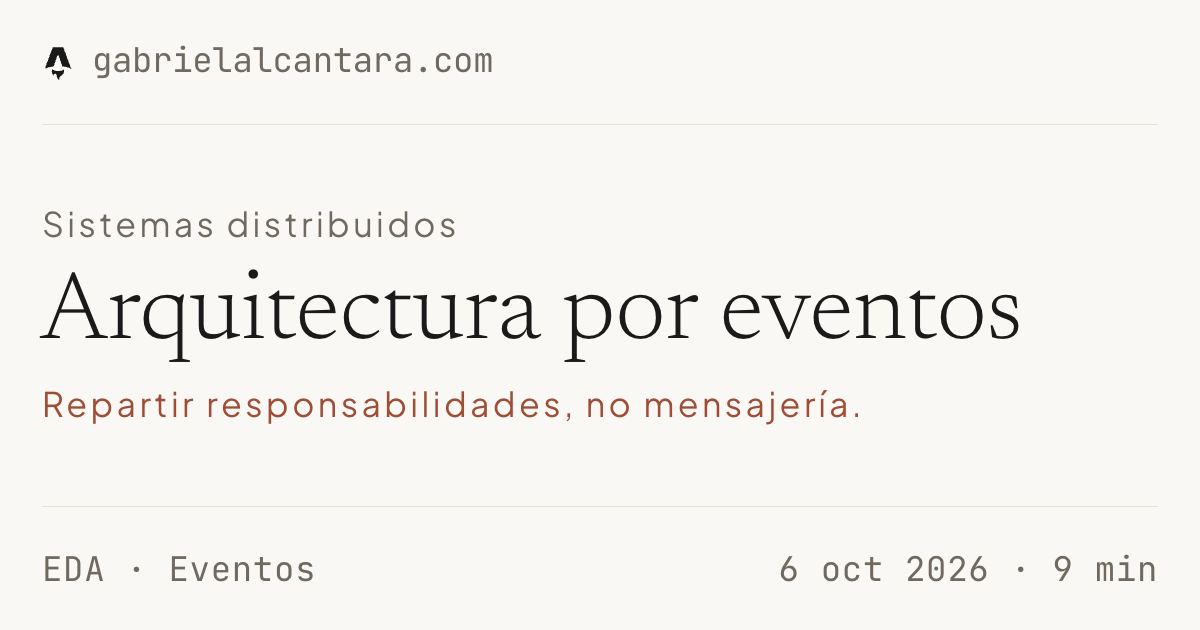
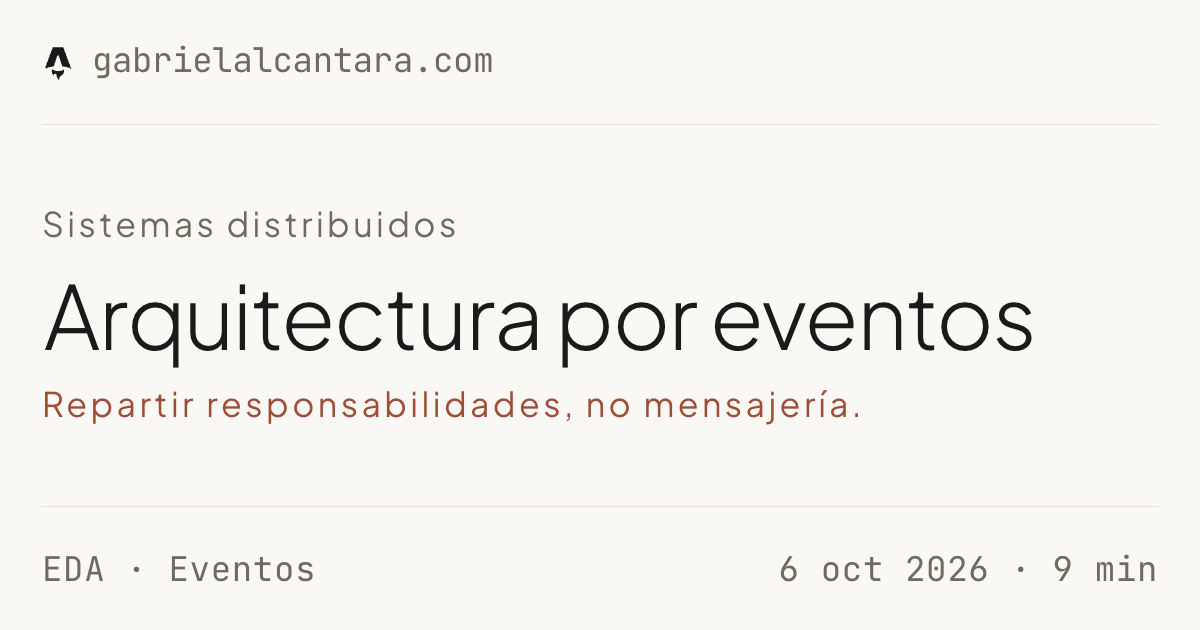
💄 style(og): set the lead in Plus Jakarta Sans at 88
The card now uses two faces: the lead and the labels in Plus Jakarta Sans, the
address and the foot in JetBrains Mono. The display row stays 96 so the rhythm
is untouched, and the lead's side bearing — five to eight pixels wide on this
face — is measured per headline, so its ink lands on --ink-line (45px) with the
labels; the exporter allows the box to hang up to 6px for it.

Changed region(s): [[0.0308, 0.4222, 0.8633, 0.573]]

diff --git a/docs/og-image/card.html b/docs/og-image/card.html
@@ -46,7 +46,13 @@
 	 * follow line-height 1, which moves the margin from 104 to 100.
 	 */
 	--slot-label: 34px;
-	--slot-title: 96px;
+	/* The lead sets at 88 in a 96 row: the row is the line's height, so the
+	   three-line block keeps its 96 and the type sheds only the empty shoulder. */
+	--slot-title: 88px;
+
+	/* Where the labels' ink lands on the shared column. The lead's side bearing
+	   is several pixels wide at 88px, so the script hangs the row to this line. */
+	--ink-line: 45px;
 
 	/* The masthead row is 40 so the mark fits inside it, not over the rule. The
 	   foot row matches it so the two hairlines mirror about the canvas centre. */
@@ -208,19 +214,20 @@ html, body { background: var(--paper); }
 	top: var(--y-title);
 	height: var(--h-title);
 	line-height: var(--h-title);
-	font-family: "CardSerif", Georgia, "Times New Roman", serif;
+	font-family: "CardSans", ui-sans-serif, system-ui, sans-serif;
 	font-size: var(--slot-title);
 	font-weight: 300;
-	letter-spacing: 0;
+	letter-spacing: -.02em;
 	color: var(--ink);
 }
 
 /*
- * The lead hangs two pixels: measured, its round G lands 1px right of the stems
- * of the label rows, and a curve needs that much to look flush. The exporter
- * allows the hang on this slot only; the script clears it for straight initials.
+ * The lead's ink, not its box, is what lines up with the labels: at 88px the
+ * sans' side bearing pushes the first letter five or six pixels right, and it
+ * differs by letter. The script measures that bearing once the face is loaded
+ * and hangs the row by it; the exporter caps the overhang.
  */
-.lead span { transform: translate(var(--lead-hang, -2px), 0); }
+.lead span { transform: translate(var(--lead-hang, 0px), 0); }
 
 /* The line that explains the title: sans at label size, tracked, in the accent. */
 .sub {
@@ -302,6 +309,27 @@ html, body { background: var(--paper); }
 	var footRight = document.getElementById('footRight');
 	var domain = document.getElementById('domain');
 
+	var inkContext = document.createElement('canvas').getContext('2d');
+
+	// Where the first glyph's ink starts, in card coordinates: the box is not
+	// the ink, and on a display line the bearing is several pixels wide.
+	function inkLeft(element) {
+		var style = getComputedStyle(element);
+		inkContext.font = style.fontWeight + ' ' + style.fontSize + ' ' + style.fontFamily;
+		var metrics = inkContext.measureText(element.textContent.trim());
+		return element.getBoundingClientRect().left - metrics.actualBoundingBoxLeft;
+	}
+
+	// The labels' ink lands on one line; the lead hangs until its own ink does
+	// too, so the three-line block reads as a single column of type.
+	function alignLead() {
+		if (!lead.textContent.trim()) return;
+		var line = Number.parseFloat(getComputedStyle(card).getPropertyValue('--ink-line'));
+		if (!isFinite(line)) line = 45;
+		var hang = Math.round((line - inkLeft(lead)) * 2) / 2;
+		lead.style.setProperty('--lead-hang', hang + 'px');
+	}
+
 	function setText(element, value) {
 		element.textContent = value == null ? '' : String(value);
 		return element.textContent.trim();
@@ -319,10 +347,9 @@ html, body { background: var(--paper); }
 		if (copy.title != null) setText(lead, copy.title);
 		if (copy.sub != null) setText(sub, copy.sub);
 
-		// Only round and pointed capitals hang; a straight stem (N, P, L, B) sits
-		// on the column line, so every card keeps its own optical edge.
-		var initial = lead.textContent.trim().charAt(0).toUpperCase();
-		lead.style.setProperty('--lead-hang', 'ACGOQSVWY'.indexOf(initial) === -1 ? '0px' : '-2px');
+		// The lead's ink has to land on the labels' ink, so the hang is measured
+		// once the copy and the face are in place, not guessed from the initial.
+		lead.style.setProperty('--lead-hang', '0px');
 		if (copy.footLeft != null) setText(footLeft, copy.footLeft);
 		if (copy.footRight != null) footRight.hidden = !setText(footRight, copy.footRight);
 
@@ -337,7 +364,10 @@ html, body { background: var(--paper); }
 		// real faces, so the promise waits for the webfonts before the gate reads
 		// the layout.
 		var fonts = document.fonts && document.fonts.ready ? document.fonts.ready : Promise.resolve();
-		return fonts.then(function () { return { kind: card.dataset.kind }; });
+		return fonts.then(function () {
+			alignLead();
+			return { kind: card.dataset.kind };
+		});
 	}
 
 	// export.mjs calls this after the page has loaded (no location.search there).

diff --git a/docs/og-image/contact-sheet.html b/docs/og-image/contact-sheet.html
@@ -42,42 +42,42 @@
       <img src="../../public/og/nakire-tps.png" width="504" height="265" alt="">
       <figcaption>
         <b>Nakire TPS</b>
-        <span>caso · /projects/nakire-tps/ · 47 KB</span>
+        <span>caso · /projects/nakire-tps/ · 45 KB</span>
       </figcaption>
     </figure>
 <figure>
       <img src="../../public/og/bodega-digital.png" width="504" height="265" alt="">
       <figcaption>
         <b>Bodega Digital</b>
-        <span>caso · /projects/bodega-digital/ · 54 KB</span>
+        <span>caso · /projects/bodega-digital/ · 55 KB</span>
       </figcaption>
     </figure>
 <figure>
       <img src="../../public/og/pachanga-community.png" width="504" height="265" alt="">
       <figcaption>
         <b>Pachanga Community</b>
-        <span>caso · /projects/pachanga-community/ · 56 KB</span>
+        <span>caso · /projects/pachanga-community/ · 55 KB</span>
       </figcaption>
     </figure>
 <figure>
       <img src="../../public/og/ddd-dominios-complejos.png" width="504" height="265" alt="">
       <figcaption>
         <b>Dominios complejos</b>
-        <span>post · /blog/ddd-dominios-complejos/ · 49 KB</span>
+        <span>post · /blog/ddd-dominios-complejos/ · 46 KB</span>
       </figcaption>
     </figure>
 <figure>
       <img src="../../public/og/websockets-operaciones-tiempo-real.png" width="504" height="265" alt="">
       <figcaption>
         <b>WebSockets en operación</b>
-        <span>post · /blog/websockets-operaciones-tiempo-real/ · 58 KB</span>
+        <span>post · /blog/websockets-operaciones-tiempo-real/ · 59 KB</span>
       </figcaption>
     </figure>
 <figure>
       <img src="../../public/og/arquitectura-orientada-a-eventos.png" width="504" height="265" alt="">
       <figcaption>
         <b>Arquitectura por eventos</b>
-        <span>post · /blog/arquitectura-orientada-a-eventos/ · 56 KB</span>
+        <span>post · /blog/arquitectura-orientada-a-eventos/ · 57 KB</span>
       </figcaption>
     </figure>
 <figure>

diff --git a/docs/og-image/README.md b/docs/og-image/README.md
@@ -8,16 +8,16 @@ the browser, and export when the copy or the layout changes.
 
 ## The one rule
 
-The card is a rigid template: **three faces, two sizes, five slots, one line
+The card is a rigid template: **two faces, two sizes, five slots, one line
 each, nothing reflows.** The faces and colours are the site's own: JetBrains Mono
-for the labels, Newsreader 300 for the lead, Plus Jakarta Sans for the kicker and
-the standfirst.
+for the address and the foot, Plus Jakarta Sans for the lead, the kicker and the
+standfirst.
 
 | # | Slot | Face | Size | Height | Holds |
 | --- | --- | --- | --- | --- | --- |
 | 1 | domain | mono | 34 px | 40 | the mark, then `gabrielalcantara.com` |
 | 2 | eyebrow | sans | 34 px | 34 | tracked, in the faint ink: category, `Caso de estudio · Company`, place |
-| 3 | title | serif 300 | 96 px | 96 | the name or the headline |
+| 3 | title | sans 300 | 88 px | 96 | the name or the headline |
 | 4 | sub | sans | 34 px | 34 | tracked, in the accent: role or standfirst |
 | 5 | foot | mono | 34 px | 40 | stack or tags on the left, years or date on the right |
 
@@ -34,13 +34,13 @@ foot: at 34 px a fourth one runs into the margin.
 `export.mjs` enforces it. It measures the rendered card and refuses to write a
 PNG when a slot is empty, wraps to a second line, overflows its width, invades
 the 42 px gutter, drops below 34 px, or breaks the rhythm. The lead is the only
-slot allowed past that line, and only by 2 px: a round or pointed capital has to
-hang for its curve to look flush (see below). It also refuses an image that is
+slot allowed past that line, by up to 6 px: its box hangs so the first letter's
+ink lands on the labels' ink (see below). It also refuses an image that is
 not exactly 1200×630 or heavier than `--max-kb`.
 
 34 px is the floor because the canvas is not what people see: a timeline draws
 the card near 504 px wide, a factor of 0.42, so 34 px arrives on screen at about
-14 px. At 96 px a title fits roughly 24 characters, and in uppercase at 34 px a
+14 px. At 88 px a title fits roughly 23 characters, and in uppercase at 34 px a
 label fits roughly 40 — that is the budget the card copy is written to.
 
 The accent is the site's terracotta, `#9e4e36`, and it marks the standfirst only:
@@ -76,11 +76,11 @@ The rhythm is measured on the slot boxes, not on ink. A `Q` tail, an accent over
 a capital or the descender of a `g` dips into the space below without moving it;
 measuring ink would make the gaps depend on which words a card happens to use.
 
-The one exception is the lead's 2 px hang. `card.html` measures nothing and
-decides nothing at export time: it sets the hang from the initial — round and
-pointed capitals (`G`, `C`, `S`, `A`, `W`…) hang, straight stems (`N`, `P`, `L`,
-`B`) stay on the line — so the optical edge is right on every card, not just on
-the one where it was noticed.
+The one exception is the lead's hang. `card.html` measures the first letter's
+side bearing once the face has loaded — `canvas.measureText` reports ink, not
+the box — and hangs the row so the lead's ink reaches the labels' line — 45 px on the
+canvas, `--ink-line`; the exporter allows up to 6 px. The display row stays 96 px although the type is 88,
+so the three-line block keeps its height and the rhythm is still read on boxes.
 
 ## The loop
 
